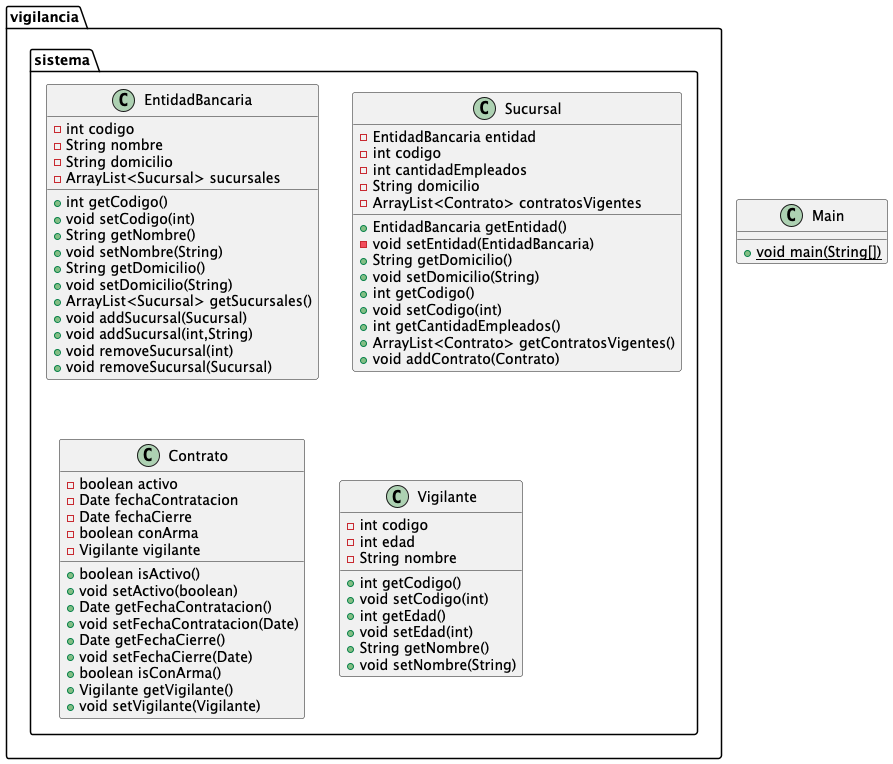
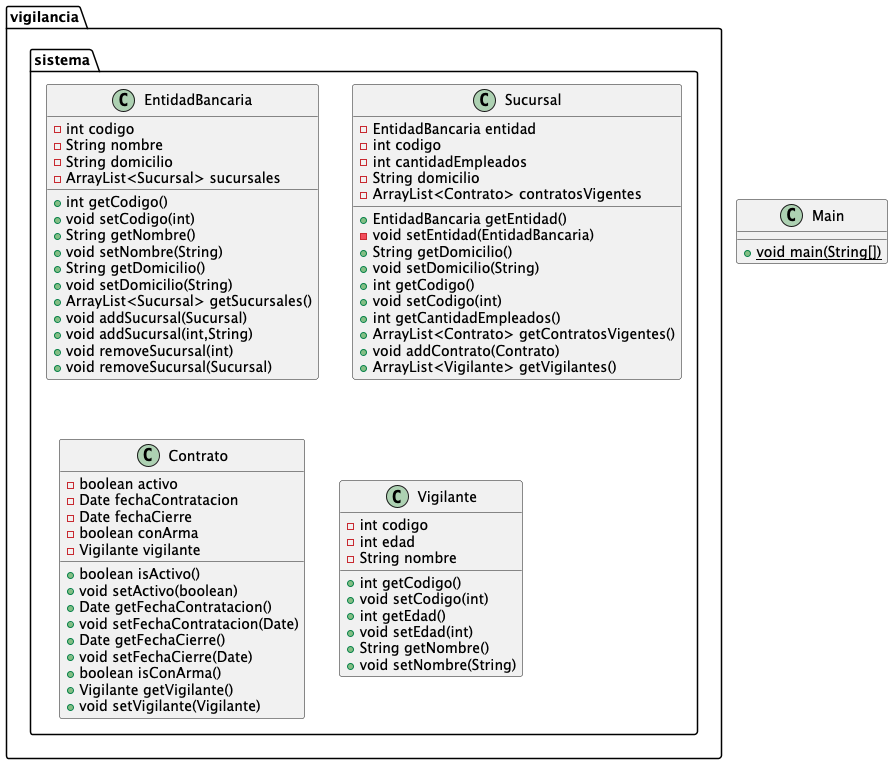
docs: agregar alta contratos para ver vigilantes de la sucursal

Changed region(s): [[0.3931, 0.1204, 0.7559, 0.5118]]

diff --git a/src/vigilancia/sistema/Sucursal.java b/src/vigilancia/sistema/Sucursal.java
@@ -8,6 +8,7 @@ public class Sucursal {
     private int cantidadEmpleados = 0;
     private String domicilio;
     private ArrayList<Contrato> contratosVigentes;
+    //private ArrayList<Vigilante> vigilantes;
 
     public Sucursal(EntidadBancaria entidad) {
         this.setEntidad(entidad);
@@ -55,5 +56,18 @@ public class Sucursal {
 
     public void addContrato(Contrato contrato) {
         this.contratosVigentes.add(contrato);
+    }
+
+    public ArrayList<Vigilante> getVigilantes() {
+        ArrayList<Vigilante> vigilantes = new ArrayList<>();
+
+        for(Contrato contrato : contratosVigentes){
+            Vigilante vigilante = contrato.getVigilante();
+            if(contrato.isActivo()) {
+                vigilantes.add(vigilante);
+            }
+        }
+
+        return vigilantes;
     }
 }

diff --git a/src/Main.java b/src/Main.java
@@ -33,6 +33,7 @@ public class Main {
             new Date(2025, 7, 1),
             new Date(2025, 11, 31)
         );
+        contratoMario.setActivo(true);
         sucursal.addContrato(contratoMario);
 
         // Creo contrato de Juan Pablo
@@ -41,6 +42,7 @@ public class Main {
         nuevoContrato.setFechaContratacion(new Date(2025, 7, 1));
         nuevoContrato.setFechaCierre(new Date(2025, 11, 31));
         nuevoContrato.setVigilante(juanPablo);
+        nuevoContrato.setActivo(false);
 
         //Manera 2
         bancoDV.addSucursal(new Sucursal(bancoDV));
@@ -52,7 +54,7 @@ public class Main {
         //Manera 3
         bancoDV.addSucursal(190, "Calle 456, BA");
 
-
+        ArrayList<Vigilante> vigilantesDeSucursal = sucursal.getVigilantes();
 
         bancoDV.getSucursales();
     }

diff --git a/README.md b/README.md
@@ -9,5 +9,5 @@
 - [x] Agregar las caracteristicas de la entidad Contrato
 - [x] Agregar las caracteristicas del Vigilante
 - [x] Vincular al vigilante con el contrato
-- [ ] Dar de alta contratos para ver vigilantes de la sucursal
+- [x] Dar de alta contratos para ver vigilantes de la sucursal
 - [ ] Buscar el indice de la sucursal a borrar
